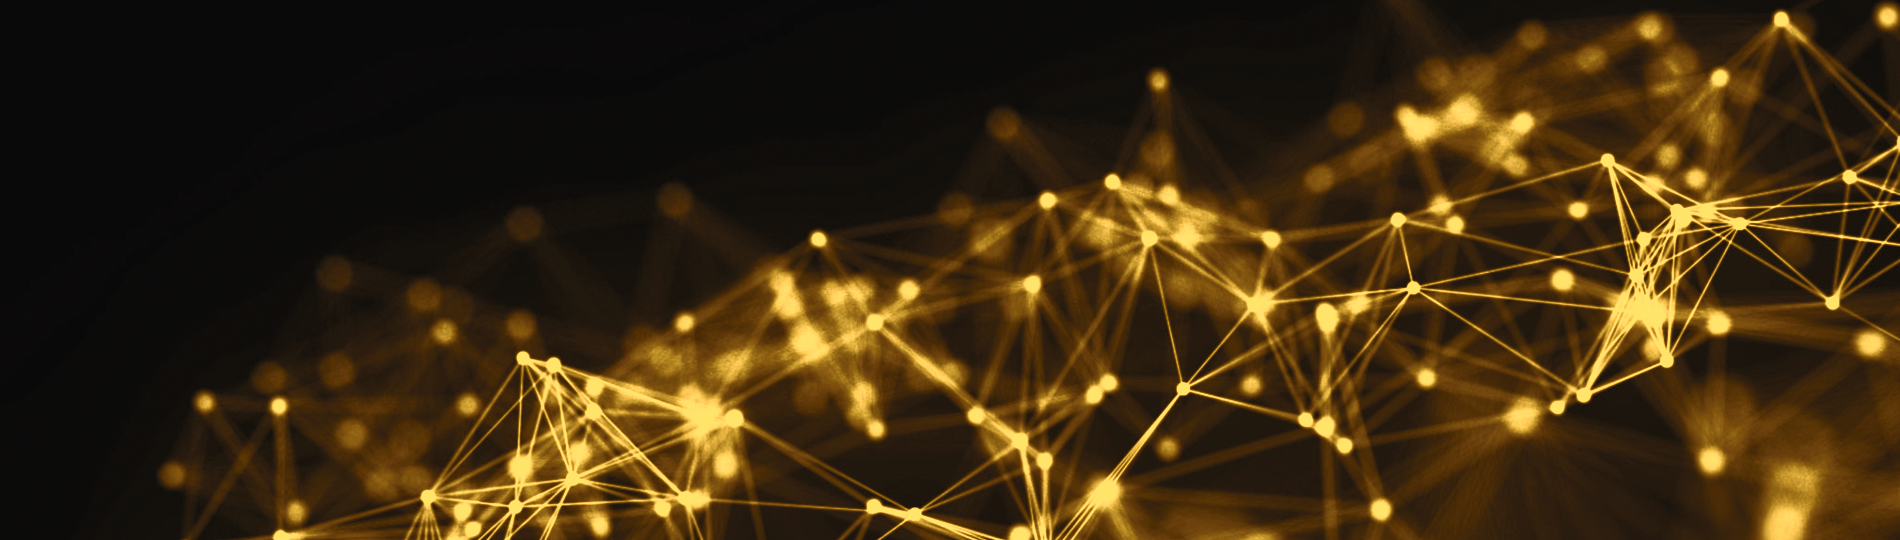
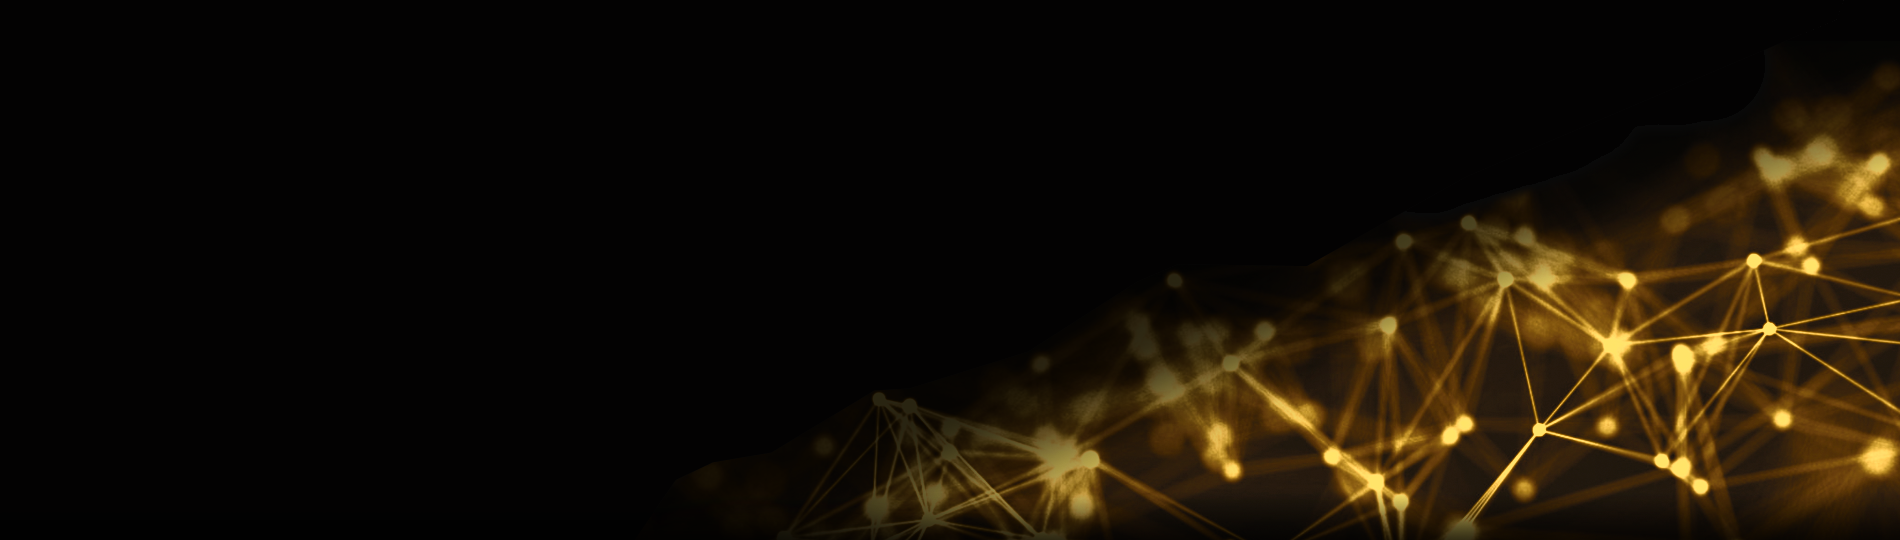
Maquetado final v4

diff --git a/componentes/main/Section4.js b/componentes/main/Section4.js
@@ -1,13 +1,20 @@
 import { BsPatchCheckFill } from 'react-icons/bs';
 import { BsFillBookmarkCheckFill } from 'react-icons/bs';
 
+import { URL_IMAGE } from '../../config/constants';
+
 const Section4 = () => {
 	return (
 		<div className='main-conteiner main-bggrey'>
 			<div className='main-wrap section4-wrap'>
 				<h2 className='main-textlight'>¿En que consiste la membresía?</h2>
 
-				<div className='section4-box main-bggrey1'>
+				<div
+					style={{
+						backgroundImage: `url('${URL_IMAGE}/pics/bn_metaverso2.png')`,
+					}}
+					className='section4-box main-bggrey1'
+				>
 					<div className='section4-division-title'>
 						<div id='section4-icon1' className='section4-icon-div'>
 							<BsFillBookmarkCheckFill className='section4-icon1' />
@@ -22,12 +29,12 @@ const Section4 = () => {
 						<BsPatchCheckFill className='section4-icon' />
 						<h4 className='main-textlight'>Acceso total a la plataforma</h4>
 					</div>
-					<h6 className='main-textgrey '>A todas las áreas mencionadas anteriormente</h6>
+					<h6 className='main-textgrey21'>A todas las áreas mencionadas anteriormente</h6>
 					<div className='section4-icon-div'>
 						<BsPatchCheckFill className='section4-icon' />
 						<h4 className='main-textlight'>Curso completo a profesional</h4>
 					</div>
-					<h6 className='main-textgrey'>
+					<h6 className='main-textgrey21'>
 						Empezamos desde el nivel cero que es una criptomoneda hasta el nivel mas alto
 						avanzado entender estrategias DeFi.
 					</h6>
@@ -35,12 +42,14 @@ const Section4 = () => {
 						<BsPatchCheckFill className='section4-icon' />
 						<h4 className='main-textlight'>Master clases en vivo </h4>
 					</div>
-					<h6 className='main-textgrey'>Damos clases en profundidad sobre temas puntuales.</h6>
+					<h6 className='main-textgrey21'>
+						Damos clases en profundidad sobre temas puntuales.
+					</h6>
 					<div className='section4-icon-div'>
 						<BsPatchCheckFill className='section4-icon' />
 						<h4 className='main-textlight'>Mentorías privadas</h4>
 					</div>
-					<h6 className='main-textgrey'>
+					<h6 className='main-textgrey21'>
 						Otorgamos mentorías privadas, personalizadas e individuales con personal
 						calificado del equipo de trabajo.
 					</h6>
@@ -48,7 +57,7 @@ const Section4 = () => {
 						<BsPatchCheckFill className='section4-icon' />
 						<h4 className='main-textlight'>Canal de señales</h4>
 					</div>
-					<h6 className='main-textgrey'>
+					<h6 className='main-textgrey21'>
 						El único canal de señales que otorga TODO, señales spot y futuros con diferentes
 						traders, ICOs, launchpad, private sale, listado hodl, listado yield farming, todas
 						las herramientas.
@@ -57,7 +66,7 @@ const Section4 = () => {
 						<BsPatchCheckFill className='section4-icon' />
 						<h4 className='main-textlight'>Soporte técnico</h4>
 					</div>
-					<h6 className='main-textgrey'>
+					<h6 className='main-textgrey21'>
 						único equipo de trabajo que se encarga de ayudar y solucionar cualquier duda en el
 						momento.
 					</h6>

diff --git a/componentes/main/Section2.js b/componentes/main/Section2.js
@@ -2,7 +2,12 @@ import { URL_IMAGE } from '../../config/constants';
 
 const Section2 = () => {
 	return (
-		<div className='main-conteiner main-bggrey'>
+		<div
+			style={{
+				backgroundImage: `url('${URL_IMAGE}/pics/bn_top1.png')`,
+			}}
+			className='main-conteiner main-bggrey'
+		>
 			<div className='main-wrap section2-wrap'>
 				<h2 className='main-textlight'>
 					Aprende lo que nadie más te puede enseñar, supera tus límites.
@@ -10,7 +15,7 @@ const Section2 = () => {
 				<section className='section2-content main-textgrey2'>
 					<div className='section2-content-div'>
 						<h5 className='main-textlight'>Trabaja con las criptomonedas más rentable.</h5>
-						<h6>
+						<h6 className='main-textgrey211'>
 							Es necesario tener conocimiento de todos los formatos y proyectos en constante
 							crecimiento, no es solo BITCOIN también existen criptomonedas rentables y de
 							gran capitalización que están cambiando la manera de invertir.
@@ -19,7 +24,7 @@ const Section2 = () => {
 
 					<div className='section2-content-div'>
 						<h5 className='main-textlight'>Trabaja con diferentes protocolos. </h5>
-						<h6>
+						<h6 className='main-textgrey211'>
 							No solo aprenderás de finanzas descentralizadas sino también de sistemas ya que
 							para operar DeFi tienes que entender cómo funciona los conceptos, practicas y
 							redes compatibles entre sí.
@@ -28,7 +33,7 @@ const Section2 = () => {
 
 					<div className='section2-content-div'>
 						<h5 className='main-textlight'>Entrena tu mentalidad y confianza. </h5>
-						<h6>
+						<h6 className='main-textgrey211'>
 							Tu perfil como inversor es tan importante como el conocimiento que desarrollas
 							con tu formación, tienes que estar mentalizado al éxito siempre, pero también a
 							la calma, pensar antes de actuar y sobre todo entender que es un mercado.

diff --git a/styles/section4.css b/styles/section4.css
@@ -1,14 +1,8 @@
-.section4-content {
-	display: flex;
-	flex-direction: column;
-	margin: 2rem auto 0 auto;
-}
-
 .section4-box {
-	max-width: 600px;
+	max-width: 595px;
 	border-radius: 20px;
 	margin: 1rem auto 1rem auto;
-	padding: 2.5rem 1.5rem 1.5rem 1.5rem;
+	padding: 1rem 1.5rem 0rem 1.5rem;
 }
 
 .section4-box h4 {
@@ -16,6 +10,9 @@
 	font-size: 1.3rem;
 	font-weight: 300;
 	text-align: left;
+	background-size: cover;
+	background-position: center;
+	background-repeat: no-repeat;
 }
 
 .section4-box h6 {
@@ -29,7 +26,7 @@
 
 .section4-division-title {
 	border-bottom: 1px solid #373842;
-	margin-bottom: 4rem;
+	margin-bottom: 2rem;
 }
 
 #section4-icon1 {
@@ -80,8 +77,8 @@
 
 .section4-wrap h6 {
 	font-size: 1rem;
-	margin: 0 auto 3rem auto;
-	width: 80%;
+	margin: 0 0 2rem 0rem;
+	width: 99%;
 }
 
 .section4-icon-div {
@@ -94,7 +91,7 @@
 .section4-icon-div h4 {
 	width: auto;
 	text-align: center;
-	margin-bottom: 1rem;
+	margin-bottom: 0.5rem;
 }
 
 .section4-icon {

diff --git a/styles/section2.css b/styles/section2.css
@@ -4,12 +4,23 @@
 	margin: auto;
 }
 
+.section2-wrap {
+	padding: 3rem 0 1rem 0;
+	min-height: 725px;
+}
+
 .section2-wrap h2 {
 	margin-bottom: 3rem;
 }
 
 .section2-content {
 	margin: 1rem auto 0 auto;
+}
+
+.section2-content-div h5 {
+	font-weight: 400;
+	font-size: 1.4rem;
+	width: 90%;
 }
 
 .section2-content h6 {
@@ -23,7 +34,7 @@
 	flex-wrap: wrap;
 	align-items: center;
 	justify-content: center;
-	margin: 2rem auto 0 auto;
+	margin: 1rem auto 0 auto;
 }
 
 .section2-criptos img {
@@ -44,16 +55,14 @@
 	}
 }
 
-@media (min-width: 600px) {
-}
-
 @media (min-width: 800px) {
+	.section2-wrap {
+		padding: 3rem 0 1rem 0;
+		min-height: 725px;
+	}
 	.section2-wrap h2 {
 		max-width: 630px;
 	}
-}
-
-@media (min-width: 1000px) {
 }
 
 @media (min-width: 1460px) {
@@ -78,6 +87,6 @@
 	}
 
 	.section2-criptos {
-		margin: 5rem auto 0 auto;
+		margin: 2rem auto 0 auto;
 	}
 }

diff --git a/styles/main.css b/styles/main.css
@@ -95,18 +95,32 @@
 
 .main-textgrey {
 	color: #848e9c;
+	text-shadow: 1px 1px 2px rgb(0, 0, 0);
 }
 
 .main-textgrey2 {
 	color: #a3aab6;
+	text-shadow: 1px 1px 2px rgb(0, 0, 0);
+}
+
+.main-textgrey211 {
+	color: #c0bfbf;
+	text-shadow: 1px 1px 2px rgb(0, 0, 0);
+}
+
+.main-textgrey21 {
+	color: #d3d3d3;
+	text-shadow: 1px 1px 2px rgb(0, 0, 0);
 }
 
 .main-textgrey3 {
 	color: #d5d7db;
+	text-shadow: 1px 1px 2px rgb(0, 0, 0);
 }
 
 .main-textlight {
 	color: #eaecef;
+	text-shadow: 1px 1px 2px rgb(0, 0, 0);
 }
 
 @media (min-width: 500px) {

diff --git a/componentes/main/Section0.js b/componentes/main/Section0.js
@@ -5,7 +5,7 @@ const Section0 = () => {
 		<div
 			className='section0-conteiner'
 			style={{
-				backgroundImage: `linear-gradient(to top, rgb(19, 20, 26, 1), rgba(0, 0, 0, 0.1)), url('${URL_IMAGE}/pics/top4.png')`,
+				backgroundImage: `linear-gradient(to  top, rgb(19, 20, 26, 1 ) 0%, rgba(0, 0, 0, 0.1)), url('${URL_IMAGE}/pics/bn_top2.png')`,
 			}}
 		>
 			<section className='section0-wrap animate__animated animate__fadeInUp'>

diff --git a/componentes/main/Section1.js b/componentes/main/Section1.js
@@ -3,7 +3,7 @@ import { URL_IMAGE } from '../../config/constants';
 const Section1 = () => {
 	return (
 		<div className='main-conteiner main-bggrey2'>
-			<div className='main-wrap '>
+			<div id='section1' className='main-wrap '>
 				<h2 className='main-textlight'>¿Que es el Master Crypto?</h2>
 				<h5 className='main-textgrey3'>
 					Es un sistema de formación intensiva diseñado para ayudarte a alcanzar tus objetivos

diff --git a/styles/section0.css b/styles/section0.css
@@ -2,7 +2,7 @@
 	display: flex;
 	flex-direction: row;
 	width: 100%;
-	height: 50vh;
+	height: 30rem;
 	margin: auto;
 	background-size: cover;
 	background-position: center;
@@ -15,7 +15,7 @@
 	flex-direction: column;
 	text-align: center;
 	height: auto;
-	margin: 7rem auto 0 auto;
+	margin: 6.5rem auto 0 auto;
 	text-shadow: 3px 3px 1px rgb(0, 0, 0);
 	padding: 1rem;
 }

diff --git a/styles/section1.css b/styles/section1.css
@@ -1,3 +1,7 @@
+#section1 {
+	padding-top: 0rem;
+}
+
 .section1-img {
 	margin: 3rem auto 0 auto;
 	width: 240px;
